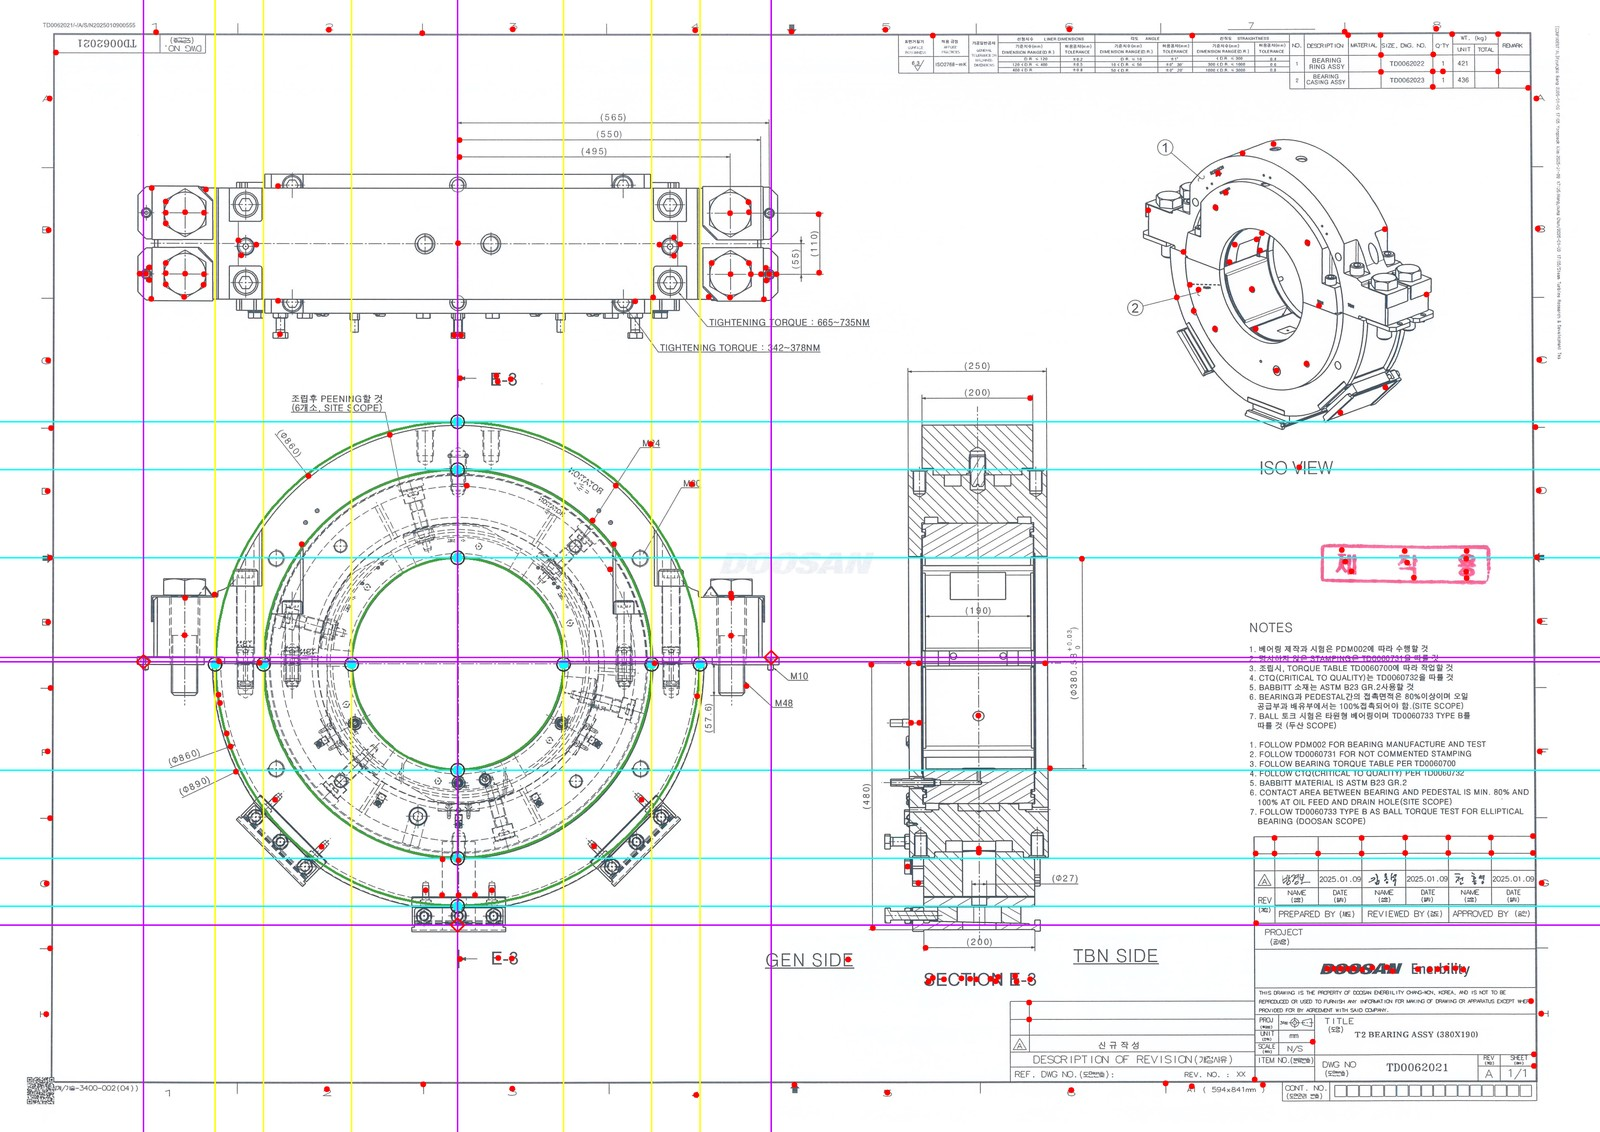
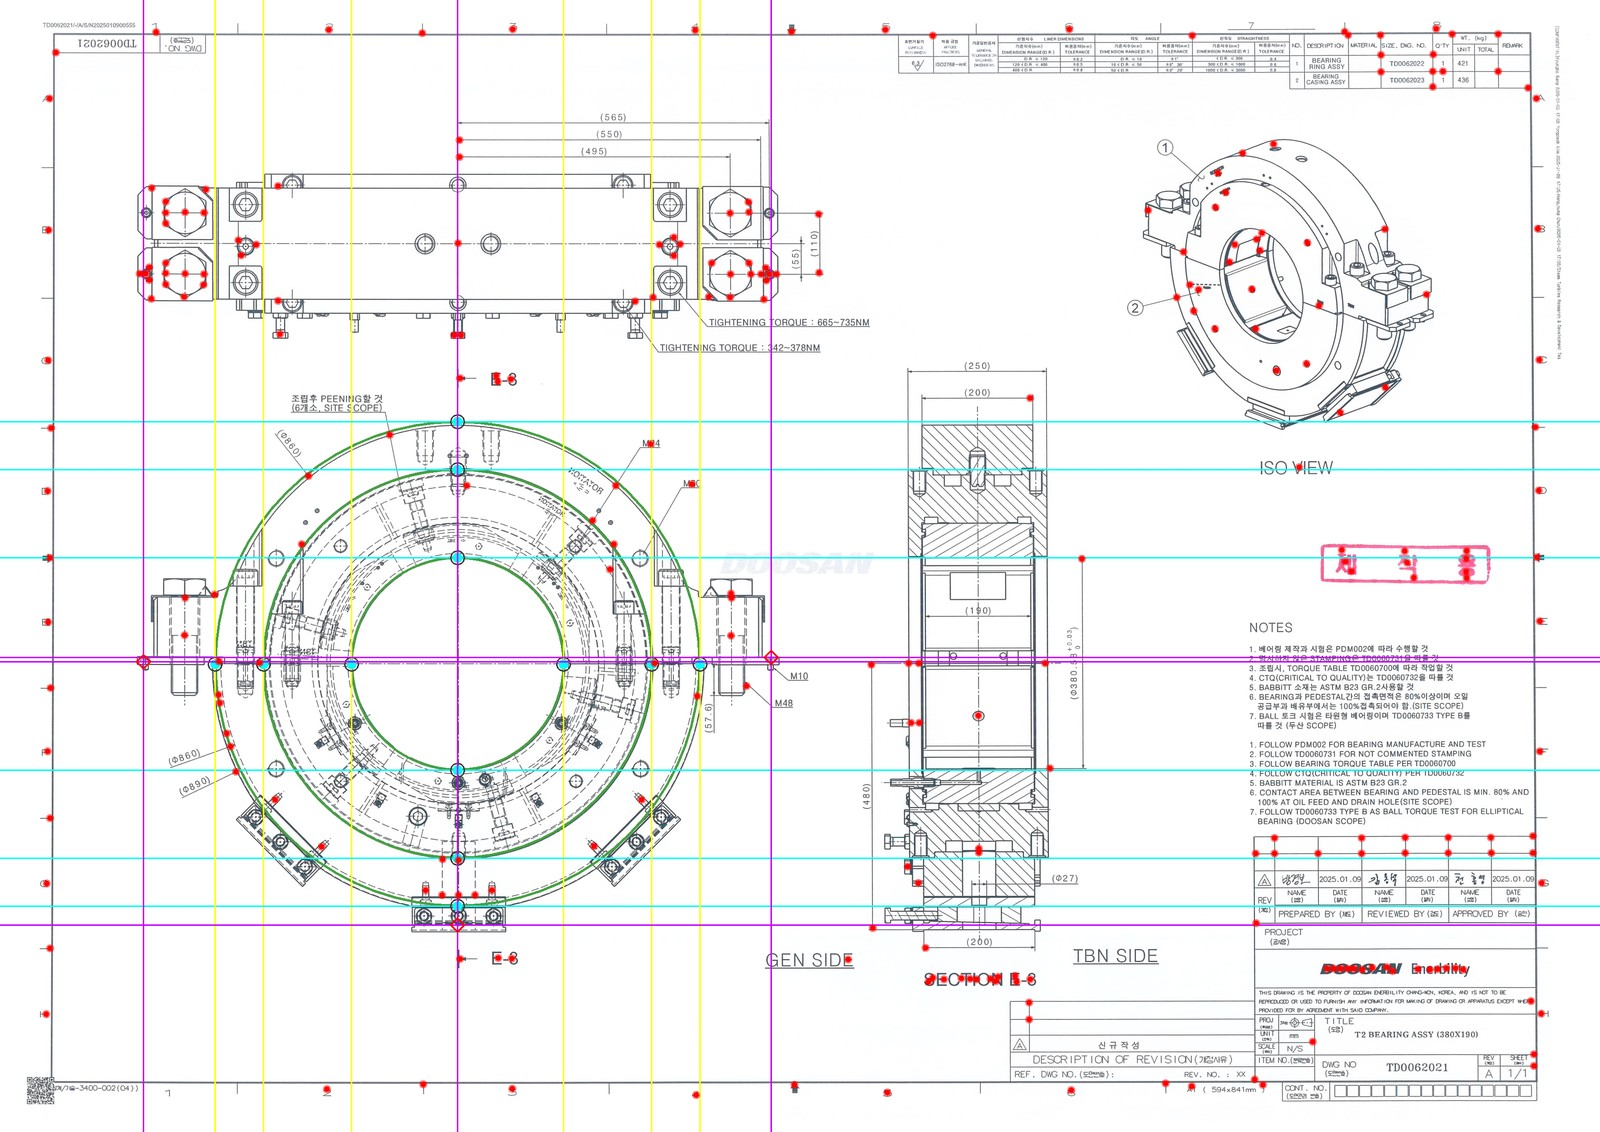
Update S01 arrowhead markers

Changed region(s): [[0.8438, 0.8348, 0.875, 0.8657], [0.4688, 0.2164, 0.5, 0.2473]]

diff --git a/blueprint-ai-bom/scripts/s01_cardinal_integration.py b/blueprint-ai-bom/scripts/s01_cardinal_integration.py
@@ -255,6 +255,13 @@ def draw_projection_line(
         cv2.line(canvas, (int(line["px"]), 0), (int(line["px"]), height), color, 2)
 
 
+def draw_arrowhead_marker(canvas: np.ndarray, arrow: Dict[str, Any]) -> None:
+    ax = int(arrow["x"])
+    ay = int(arrow["y"])
+    cv2.circle(canvas, (ax, ay), 6, (0, 0, 255), -1)
+    cv2.circle(canvas, (ax, ay), 8, (0, 0, 255), 1)
+
+
 def classify_gt_label(value: float, gt: Dict[str, Any]) -> Optional[str]:
     for label, key in (("OD", "od"), ("ID", "id"), ("W", "w")):
         gt_value = float(gt[key])
@@ -304,7 +311,7 @@ def visualize_projection_arrowheads_only(
     canvas = cv2.cvtColor(np.array(base), cv2.COLOR_RGB2BGR)
 
     for arrow in arrowheads:
-        cv2.circle(canvas, (int(arrow["x"]), int(arrow["y"])), 6, (0, 0, 255), -1)
+        draw_arrowhead_marker(canvas, arrow)
 
     return Image.fromarray(cv2.cvtColor(canvas, cv2.COLOR_BGR2RGB))
 
@@ -383,7 +390,7 @@ def visualize(
         )
 
     for arrow in arrowheads:
-        cv2.circle(canvas, (int(arrow["x"]), int(arrow["y"])), 6, (0, 0, 255), -1)
+        draw_arrowhead_marker(canvas, arrow)
 
     detected_labels = [
         format_ocr_label(match["ocr"], gt)
